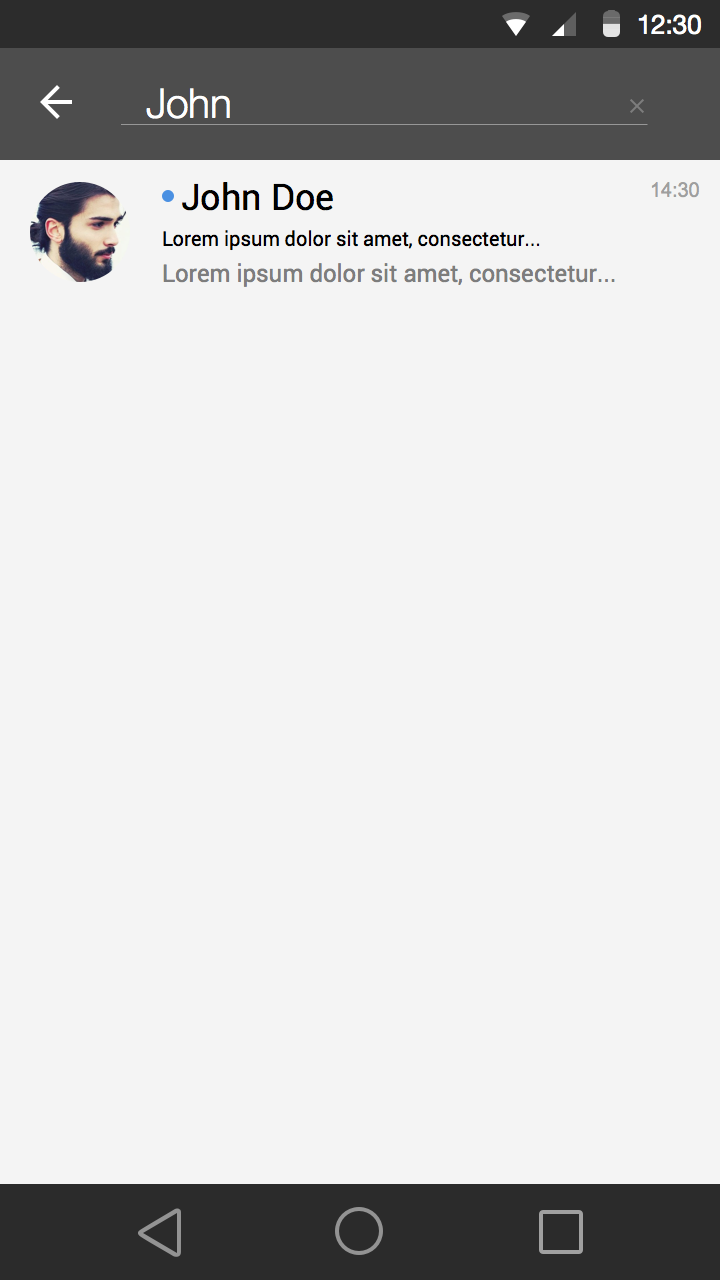
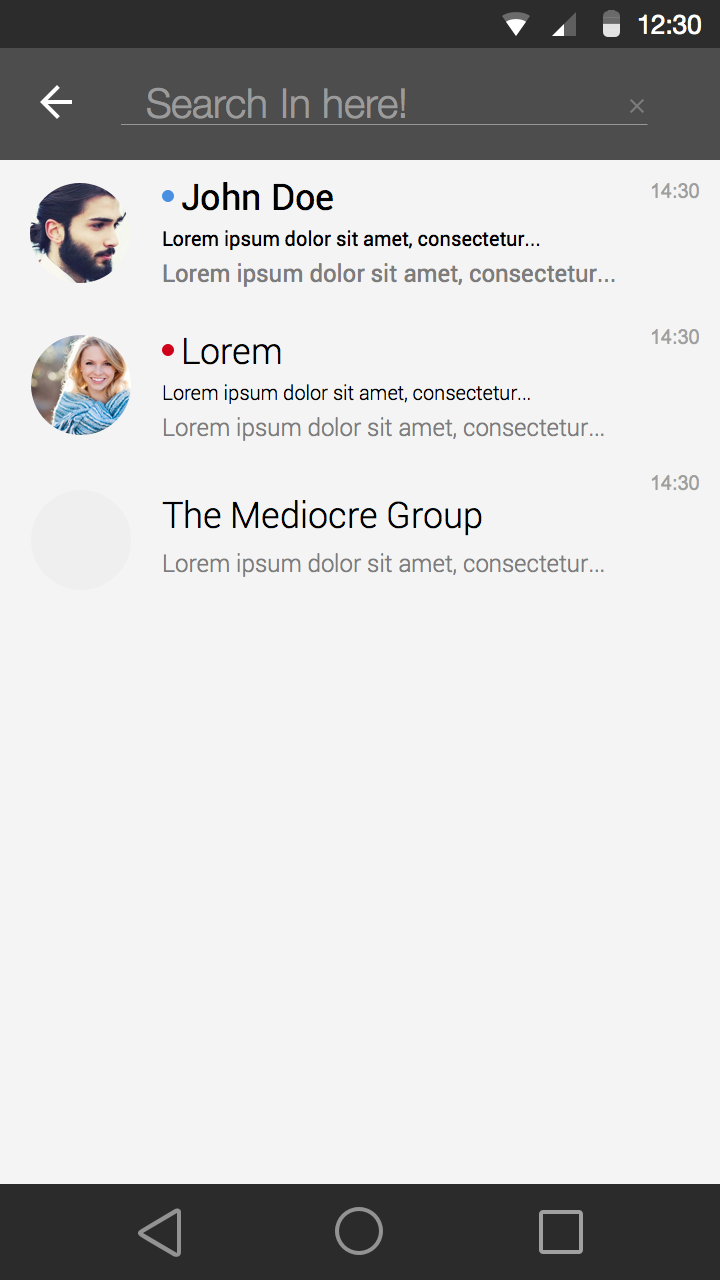
Huge Fix in the mockups

diff --git a/doc/storyboard/ProfileScrollPromptStatusChanged.html b/doc/storyboard/ProfileScrollPromptStatusChanged.html
@@ -10,17 +10,16 @@
 			<center>
 				<div>
 					<div id="center">
-						<img id="centerIMG"src="img/Friends AddPrompt.png">
-						<a href="Friends.html"><div class="highlight" style="position:absolute;top: 326px;left: 216px;width: 100px;height: 40px;"></div></a>
-						<a href="addFriendsqrcode.html"><div class="highlight" style="position:absolute;top: 273px;left: 75px;width: 250px;height: 40px;"></div></a>
-						<a href="addFriendsKeyboard.html"><div class="highlight" style="position:absolute;top: 203px;left: 65px;width: 270px;height: 40px;"></div></a>
-
+						<img id="centerIMG"src="img/User_profile_scrollStatusMessageChanged.png">
+						<a href="ProfileScroll.html"><div class="highlight" style="position:absolute;top: 290px;left: 82px;width: 100px;height: 40px;"></div></a>
+						<a href="ProfileScroll.html"><div class="highlight" style="position:absolute;top: 290px;left: 216px;width: 100px;height: 40px;"></div></a>
 					</div>
 					<div id="text"><h1>Tox Android Application Mockup</h1></div>
-					<a href="Call.html" style="color:blue;">Get a Call!</a>
+					<a href="Profile.html" style="color:blue;">Scroll Up!</a>
 					<input id="checkbox" type="checkbox"  checked>Highlight Touch Spots<br>
 				</div>
 			</center>
+			
 		</div>
 	</body>
 	<script type="text/javascript">

diff --git a/doc/storyboard/ProfileScrollPromptNickChanged.html b/doc/storyboard/ProfileScrollPromptNickChanged.html
@@ -10,17 +10,17 @@
 			<center>
 				<div>
 					<div id="center">
-						<img id="centerIMG"src="img/Friends AddPrompt.png">
-						<a href="Friends.html"><div class="highlight" style="position:absolute;top: 326px;left: 216px;width: 100px;height: 40px;"></div></a>
-						<a href="addFriendsqrcode.html"><div class="highlight" style="position:absolute;top: 273px;left: 75px;width: 250px;height: 40px;"></div></a>
-						<a href="addFriendsKeyboard.html"><div class="highlight" style="position:absolute;top: 203px;left: 65px;width: 270px;height: 40px;"></div></a>
+						<img id="centerIMG"src="img/User_profile_scrollNameEditChanged.png">
+						<a href="ProfileScrollNew.html"><div class="highlight" style="position:absolute;top: 290px;left: 82px;width: 100px;height: 40px;"></div></a>
+						<a href="ProfileScroll.html"><div class="highlight" style="position:absolute;top: 290px;left: 216px;width: 100px;height: 40px;"></div></a>
 
 					</div>
 					<div id="text"><h1>Tox Android Application Mockup</h1></div>
-					<a href="Call.html" style="color:blue;">Get a Call!</a>
+					<a href="Profile.html" style="color:blue;">Scroll Up!</a>
 					<input id="checkbox" type="checkbox"  checked>Highlight Touch Spots<br>
 				</div>
 			</center>
+			
 		</div>
 	</body>
 	<script type="text/javascript">

diff --git a/doc/storyboard/ProfileScrollPromptSelected.html b/doc/storyboard/ProfileScrollPromptSelected.html
@@ -10,17 +10,16 @@
 			<center>
 				<div>
 					<div id="center">
-						<img id="centerIMG"src="img/Friends AddPrompt.png">
-						<a href="Friends.html"><div class="highlight" style="position:absolute;top: 326px;left: 216px;width: 100px;height: 40px;"></div></a>
-						<a href="addFriendsqrcode.html"><div class="highlight" style="position:absolute;top: 273px;left: 75px;width: 250px;height: 40px;"></div></a>
-						<a href="addFriendsKeyboard.html"><div class="highlight" style="position:absolute;top: 203px;left: 65px;width: 270px;height: 40px;"></div></a>
-
+						<img id="centerIMG"src="img/User_profile_scrollPromptSelected.png">
+						<a href="ProfileScroll.html"><div class="highlight" style="position:absolute;top: 345px;left: 82px;width: 100px;height: 40px;"></div></a>
+						<a href="ProfileScroll.html"><div class="highlight" style="position:absolute;top: 345px;left: 216px;width: 100px;height: 40px;"></div></a>
 					</div>
 					<div id="text"><h1>Tox Android Application Mockup</h1></div>
-					<a href="Call.html" style="color:blue;">Get a Call!</a>
+					<a href="Profile.html" style="color:blue;">Scroll Up!</a>
 					<input id="checkbox" type="checkbox"  checked>Highlight Touch Spots<br>
 				</div>
 			</center>
+			
 		</div>
 	</body>
 	<script type="text/javascript">

diff --git a/doc/storyboard/ContactDetailsScrollColorPickerSelected.html b/doc/storyboard/ContactDetailsScrollColorPickerSelected.html
@@ -10,14 +10,11 @@
 			<center>
 				<div>
 					<div id="center">
-						<img id="centerIMG"src="img/Friends AddPrompt.png">
-						<a href="Friends.html"><div class="highlight" style="position:absolute;top: 326px;left: 216px;width: 100px;height: 40px;"></div></a>
-						<a href="addFriendsqrcode.html"><div class="highlight" style="position:absolute;top: 273px;left: 75px;width: 250px;height: 40px;"></div></a>
-						<a href="addFriendsKeyboard.html"><div class="highlight" style="position:absolute;top: 203px;left: 65px;width: 270px;height: 40px;"></div></a>
-
+						<img id="centerIMG"src="img/Contacts_Details_ScrollColorPickSelected.png">
+						<a href="ContactDetailsScrollNew.html"><div class="highlight" style="position:absolute;top: 468px;left: 82px;width: 100px;height: 40px;"></div></a>
+						<a href="ContactDetailsScroll.html"><div class="highlight" style="position:absolute;top: 468px;left: 216px;width: 100px;height: 40px;"></div></a>
 					</div>
 					<div id="text"><h1>Tox Android Application Mockup</h1></div>
-					<a href="Call.html" style="color:blue;">Get a Call!</a>
 					<input id="checkbox" type="checkbox"  checked>Highlight Touch Spots<br>
 				</div>
 			</center>

diff --git a/doc/storyboard/ContactDetailsScrollEditChanged.html b/doc/storyboard/ContactDetailsScrollEditChanged.html
@@ -10,14 +10,11 @@
 			<center>
 				<div>
 					<div id="center">
-						<img id="centerIMG"src="img/Friends AddPrompt.png">
-						<a href="Friends.html"><div class="highlight" style="position:absolute;top: 326px;left: 216px;width: 100px;height: 40px;"></div></a>
-						<a href="addFriendsqrcode.html"><div class="highlight" style="position:absolute;top: 273px;left: 75px;width: 250px;height: 40px;"></div></a>
-						<a href="addFriendsKeyboard.html"><div class="highlight" style="position:absolute;top: 203px;left: 65px;width: 270px;height: 40px;"></div></a>
-
+						<img id="centerIMG"src="img/Contacts_Details_ScrollEditChanged.png">
+						<a href="ContactDetailsScrollChanged.html"><div class="highlight" style="position:absolute;top: 290px;left: 82px;width: 100px;height: 40px;"></div></a>
+						<a href="ContactDetailsScroll.html"><div class="highlight" style="position:absolute;top: 290px;left: 216px;width: 100px;height: 40px;"></div></a>
 					</div>
 					<div id="text"><h1>Tox Android Application Mockup</h1></div>
-					<a href="Call.html" style="color:blue;">Get a Call!</a>
 					<input id="checkbox" type="checkbox"  checked>Highlight Touch Spots<br>
 				</div>
 			</center>

diff --git a/doc/storyboard/addFriendsCode.html b/doc/storyboard/addFriendsCode.html
@@ -10,14 +10,12 @@
 			<center>
 				<div>
 					<div id="center">
-						<img id="centerIMG"src="img/Friends AddPrompt.png">
+						<img id="centerIMG"src="img/Friends AddPromptFilled.png">
 						<a href="Friends.html"><div class="highlight" style="position:absolute;top: 326px;left: 216px;width: 100px;height: 40px;"></div></a>
 						<a href="addFriendsqrcode.html"><div class="highlight" style="position:absolute;top: 273px;left: 75px;width: 250px;height: 40px;"></div></a>
-						<a href="addFriendsKeyboard.html"><div class="highlight" style="position:absolute;top: 203px;left: 65px;width: 270px;height: 40px;"></div></a>
-
+						<a href="FriendsToast.html"><div class="highlight" style="position:absolute;top: 326px;left: 82px;width: 100px;height: 40px;"></div></a>
 					</div>
 					<div id="text"><h1>Tox Android Application Mockup</h1></div>
-					<a href="Call.html" style="color:blue;">Get a Call!</a>
 					<input id="checkbox" type="checkbox"  checked>Highlight Touch Spots<br>
 				</div>
 			</center>

diff --git a/doc/storyboard/addFriendsKeyboard.html b/doc/storyboard/addFriendsKeyboard.html
@@ -10,14 +10,13 @@
 			<center>
 				<div>
 					<div id="center">
-						<img id="centerIMG"src="img/Friends AddPrompt.png">
+						<img id="centerIMG"src="img/Friends AddPromptKeyboard.png">
 						<a href="Friends.html"><div class="highlight" style="position:absolute;top: 326px;left: 216px;width: 100px;height: 40px;"></div></a>
 						<a href="addFriendsqrcode.html"><div class="highlight" style="position:absolute;top: 273px;left: 75px;width: 250px;height: 40px;"></div></a>
-						<a href="addFriendsKeyboard.html"><div class="highlight" style="position:absolute;top: 203px;left: 65px;width: 270px;height: 40px;"></div></a>
+						<a href="addFriendsCode.html" style="color:blue;"><div style="position:absolute;top: 200px;left: 420px;height: 80px;">Write!</div></a>
 
 					</div>
 					<div id="text"><h1>Tox Android Application Mockup</h1></div>
-					<a href="Call.html" style="color:blue;">Get a Call!</a>
 					<input id="checkbox" type="checkbox"  checked>Highlight Touch Spots<br>
 				</div>
 			</center>

diff --git a/doc/storyboard/ContactDetailsScrollNew.html b/doc/storyboard/ContactDetailsScrollNew.html
@@ -10,17 +10,14 @@
 			<center>
 				<div>
 					<div id="center">
-						<img id="centerIMG"src="img/Friends AddPrompt.png">
-						<a href="Friends.html"><div class="highlight" style="position:absolute;top: 326px;left: 216px;width: 100px;height: 40px;"></div></a>
-						<a href="addFriendsqrcode.html"><div class="highlight" style="position:absolute;top: 273px;left: 75px;width: 250px;height: 40px;"></div></a>
-						<a href="addFriendsKeyboard.html"><div class="highlight" style="position:absolute;top: 203px;left: 65px;width: 270px;height: 40px;"></div></a>
-
+						<img id="centerIMG"src="img/Contacts_Details_ScrollUnlockChanged.png">
 					</div>
 					<div id="text"><h1>Tox Android Application Mockup</h1></div>
-					<a href="Call.html" style="color:blue;">Get a Call!</a>
+					<a href="ContactDetails.html" style="color:blue;">Scroll Up!</a>
 					<input id="checkbox" type="checkbox"  checked>Highlight Touch Spots<br>
 				</div>
 			</center>
+			
 		</div>
 	</body>
 	<script type="text/javascript">

diff --git a/doc/storyboard/addFriendsqrcode.html b/doc/storyboard/addFriendsqrcode.html
@@ -10,14 +10,10 @@
 			<center>
 				<div>
 					<div id="center">
-						<img id="centerIMG"src="img/Friends AddPrompt.png">
-						<a href="Friends.html"><div class="highlight" style="position:absolute;top: 326px;left: 216px;width: 100px;height: 40px;"></div></a>
-						<a href="addFriendsqrcode.html"><div class="highlight" style="position:absolute;top: 273px;left: 75px;width: 250px;height: 40px;"></div></a>
-						<a href="addFriendsKeyboard.html"><div class="highlight" style="position:absolute;top: 203px;left: 65px;width: 270px;height: 40px;"></div></a>
-
+						<img id="centerIMG"src="img/qrcode.png">
+						<a href="addFriendsCode.html"><div class="highlight" style="position:absolute;top: 35px;left: 12px;width: 100px;height: 30px;"></div></a>
 					</div>
 					<div id="text"><h1>Tox Android Application Mockup</h1></div>
-					<a href="Call.html" style="color:blue;">Get a Call!</a>
 					<input id="checkbox" type="checkbox"  checked>Highlight Touch Spots<br>
 				</div>
 			</center>

diff --git a/doc/storyboard/indexSearchWriting.html b/doc/storyboard/indexSearchWriting.html
@@ -10,14 +10,11 @@
 			<center>
 				<div>
 					<div id="center">
-						<img id="centerIMG"src="img/Friends AddPrompt.png">
-						<a href="Friends.html"><div class="highlight" style="position:absolute;top: 326px;left: 216px;width: 100px;height: 40px;"></div></a>
-						<a href="addFriendsqrcode.html"><div class="highlight" style="position:absolute;top: 273px;left: 75px;width: 250px;height: 40px;"></div></a>
-						<a href="addFriendsKeyboard.html"><div class="highlight" style="position:absolute;top: 203px;left: 65px;width: 270px;height: 40px;"></div></a>
+						<img id="centerIMG"src="img/Inbox Search New.png">
+						<a href="index.html"><div class="highlight" style="position:absolute;top: 40px;left: 17px;width: 30px;height: 30px;"></div></a>
 
 					</div>
 					<div id="text"><h1>Tox Android Application Mockup</h1></div>
-					<a href="Call.html" style="color:blue;">Get a Call!</a>
 					<input id="checkbox" type="checkbox"  checked>Highlight Touch Spots<br>
 				</div>
 			</center>

diff --git a/doc/storyboard/ProfileScrollNew.html b/doc/storyboard/ProfileScrollNew.html
@@ -10,17 +10,15 @@
 			<center>
 				<div>
 					<div id="center">
-						<img id="centerIMG"src="img/Friends AddPrompt.png">
-						<a href="Friends.html"><div class="highlight" style="position:absolute;top: 326px;left: 216px;width: 100px;height: 40px;"></div></a>
-						<a href="addFriendsqrcode.html"><div class="highlight" style="position:absolute;top: 273px;left: 75px;width: 250px;height: 40px;"></div></a>
-						<a href="addFriendsKeyboard.html"><div class="highlight" style="position:absolute;top: 203px;left: 65px;width: 270px;height: 40px;"></div></a>
+						<img id="centerIMG"src="img/User_profile_scroll New.png">
 
 					</div>
 					<div id="text"><h1>Tox Android Application Mockup</h1></div>
-					<a href="Call.html" style="color:blue;">Get a Call!</a>
+					<a href="Profile.html" style="color:blue;">Scroll Up!</a>
 					<input id="checkbox" type="checkbox"  checked>Highlight Touch Spots<br>
 				</div>
 			</center>
+			
 		</div>
 	</body>
 	<script type="text/javascript">

diff --git a/doc/storyboard/Profilegallery.html b/doc/storyboard/Profilegallery.html
@@ -10,14 +10,11 @@
 			<center>
 				<div>
 					<div id="center">
-						<img id="centerIMG"src="img/Friends AddPrompt.png">
-						<a href="Friends.html"><div class="highlight" style="position:absolute;top: 326px;left: 216px;width: 100px;height: 40px;"></div></a>
-						<a href="addFriendsqrcode.html"><div class="highlight" style="position:absolute;top: 273px;left: 75px;width: 250px;height: 40px;"></div></a>
-						<a href="addFriendsKeyboard.html"><div class="highlight" style="position:absolute;top: 203px;left: 65px;width: 270px;height: 40px;"></div></a>
+						<img id="centerIMG"src="img/gallery.png">
+						<a href="Profile.html"><div class="highlight" style="position:absolute;top: 170px;left: 0px;width: 200px;height: 200px;"></div></a>
 
 					</div>
 					<div id="text"><h1>Tox Android Application Mockup</h1></div>
-					<a href="Call.html" style="color:blue;">Get a Call!</a>
 					<input id="checkbox" type="checkbox"  checked>Highlight Touch Spots<br>
 				</div>
 			</center>
